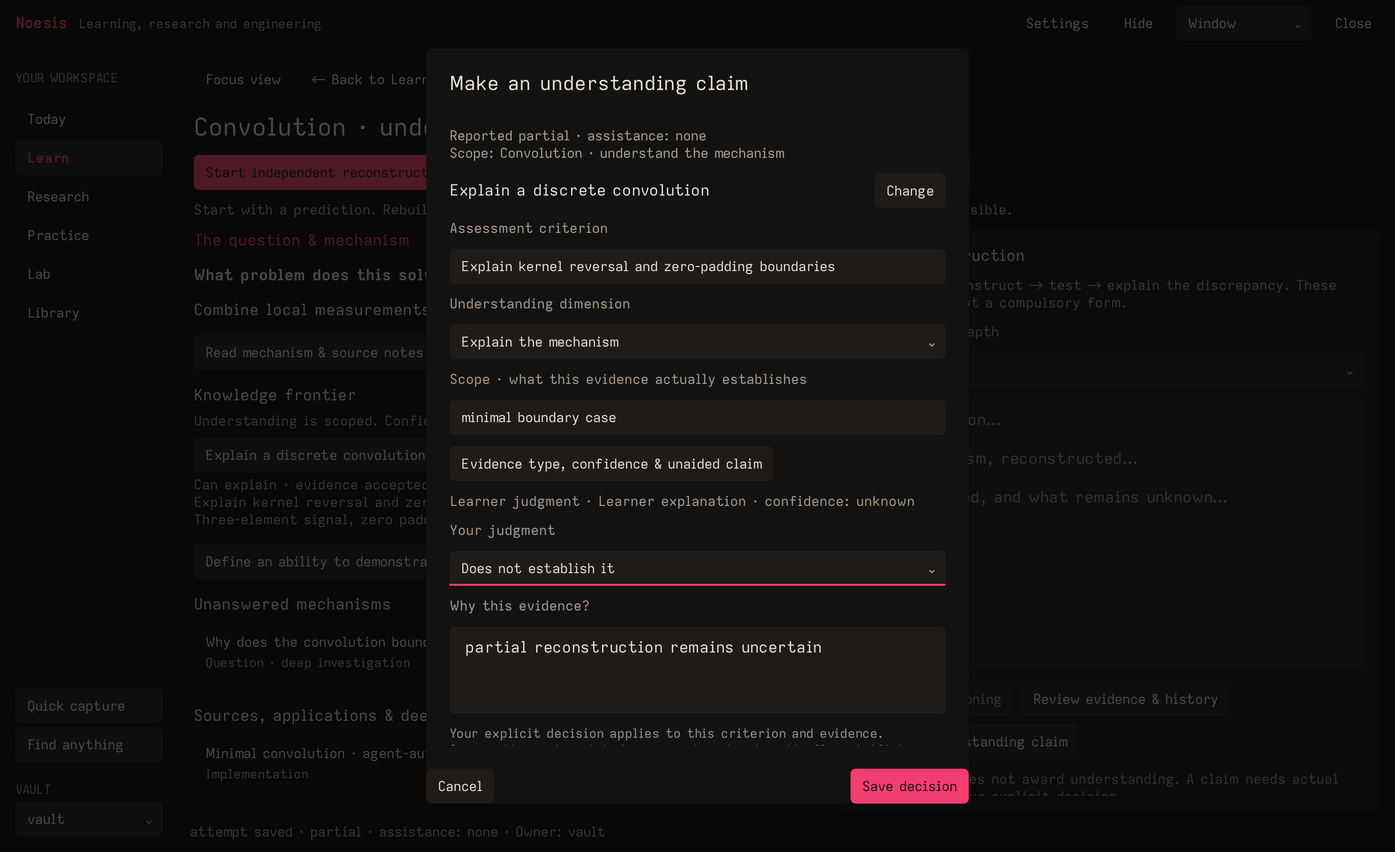
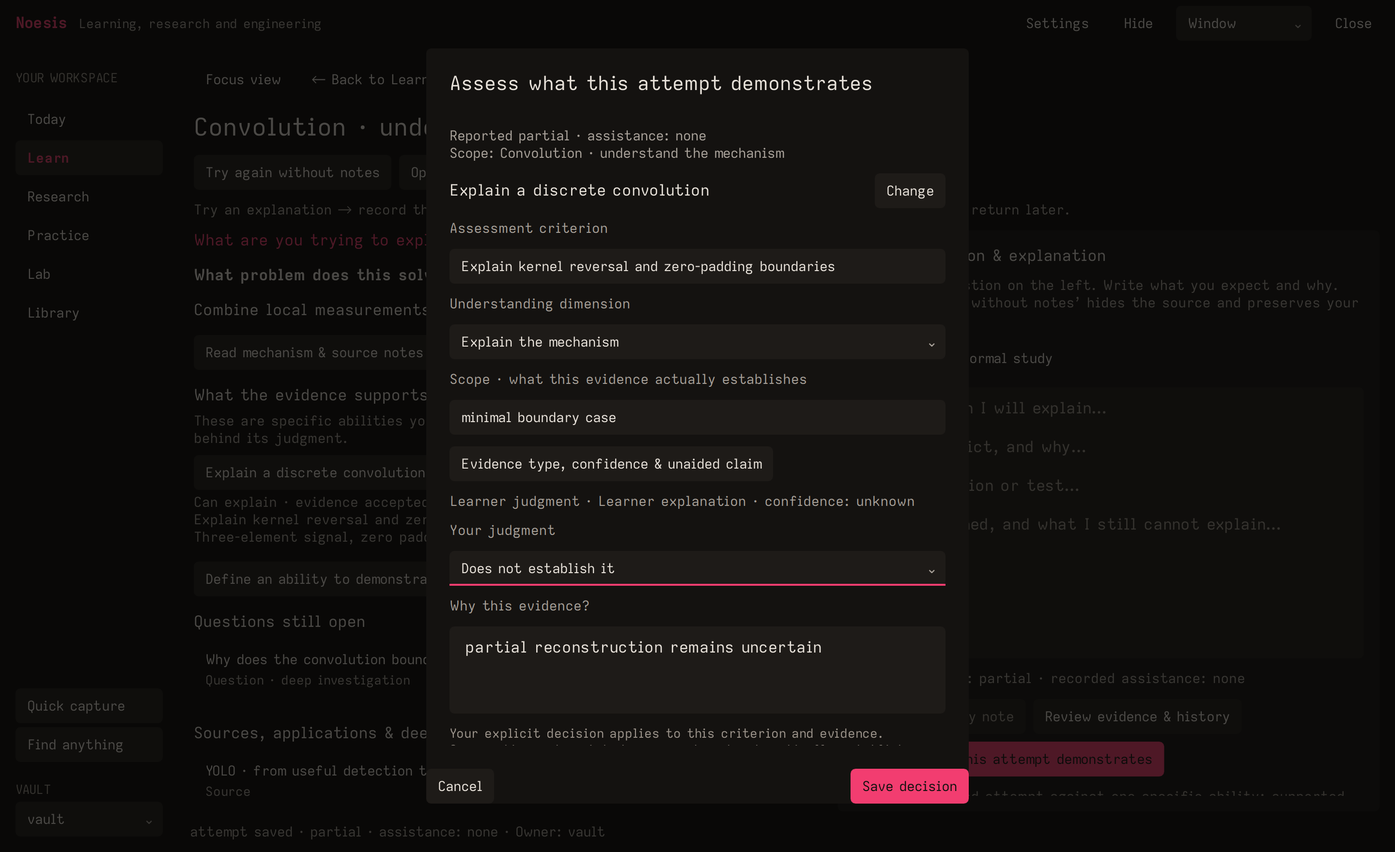
Clarify investigation entry, open questions and evidence assessment

diff --git a/home/.local/share/sensei-learning/ui/NoesisInvestigationPage.qml b/home/.local/share/sensei-learning/ui/NoesisInvestigationPage.qml
@@ -18,9 +18,11 @@ ColumnLayout {
  readonly property var depthIds:["quick","normal","deep","research-grade"]
  function claimLabel(row){let dimensions={encountered:"Encountered",use:"Can use",explain:"Can explain",derive:"Can derive",implement:"Can implement","predict-debug":"Can predict / debug",transfer:"Can transfer",retained:"Retained"};let decisions={accept:"evidence accepted",reject:"not established",withdraw:"judgment withdrawn",conflict:"competing judgments"};return (dimensions[row.dimension]||"Legacy criterion")+" · "+(decisions[row.decision]||"not assessed");}
  property string attemptId:""
+ property var lastAssessment:({})
  property bool referenceHidden:false
  property bool busy:false
  property bool reasoningOnly:false
+ property bool depthSettings:false
  property bool mechanismExpanded:false
  property string previousKey:""
  onRecordChanged:{let key=(record.vault||"")+":"+(record.id||"");if(key!==previousKey){mechanismExpanded=false;reasoningOnly=false;previousKey=key;}}
@@ -45,17 +47,17 @@ ColumnLayout {
  signal reviewEvidence()
  signal pageFrontier(string cursor)
  spacing:NoesisStyle.md
- function restoreAnchors(view){Qt.callLater(()=>{sourceScroll.ScrollBar.vertical.position=Math.max(0,Math.min(1-sourceScroll.ScrollBar.vertical.size,view.source_anchor||0));notesScroll.ScrollBar.vertical.position=Math.max(0,Math.min(1-notesScroll.ScrollBar.vertical.size,view.notes_anchor||0));});}
+ function restoreAnchors(view){reasoningOnly=view.reasoning_only===true;mechanismExpanded=view.mechanism_expanded===true;Qt.callLater(()=>{sourceScroll.ScrollBar.vertical.position=Math.max(0,Math.min(1-sourceScroll.ScrollBar.vertical.size,view.source_anchor||0));notesScroll.ScrollBar.vertical.position=Math.max(0,Math.min(1-notesScroll.ScrollBar.vertical.size,view.notes_anchor||0));});}
 
  Text {textFormat:Text.PlainText;Layout.fillWidth:true;text:root.record.title||"Investigation";color:NoesisStyle.ink;font.family:NoesisStyle.uiFont;font.pixelSize:NoesisStyle.title;wrapMode:Text.Wrap;renderType:Text.NativeRendering}
  Flow {Layout.fillWidth:true;spacing:NoesisStyle.sm
   NoesisButton {text:"← Return to motivation";visible:!!root.origin;onClicked:root.openMember(root.origin)}
-  NoesisButton {text:root.attemptId?"Record reconstruction result":"Start independent reconstruction";primary:true;enabled:!root.busy;onClicked:root.attemptId?root.evaluateAttempt():root.startAttempt()}
+  NoesisButton {text:root.attemptId?"Record how the attempt went":root.lastAssessment.id?"Try again without notes":"Try explaining without notes";primary:!!root.attemptId||!root.lastAssessment.id;enabled:!root.busy;onClicked:root.attemptId?root.evaluateAttempt():root.startAttempt()}
   NoesisButton {text:"Open derivation in Obsidian ↗";enabled:!root.busy&&!root.referenceHidden;onClicked:root.openNote()}
-  NoesisButton {text:"Investigate a missing mechanism";enabled:!root.busy;onClicked:root.askQuestion()}
-  NoesisButton {text:root.reasoningOnly?"Show question & frontier":"Show reasoning";visible:root.compact;highlighted:root.reasoningOnly;onClicked:root.reasoningOnly=!root.reasoningOnly}
+  NoesisButton {text:"Add an unanswered question";enabled:!root.busy;onClicked:root.askQuestion()}
+  NoesisButton {text:root.reasoningOnly?"Show question & evidence":"Show reasoning";visible:root.compact;highlighted:root.reasoningOnly;onClicked:root.reasoningOnly=!root.reasoningOnly}
  }
- Text {textFormat:Text.PlainText;Layout.fillWidth:true;text:root.attemptId?(root.referenceHidden?"Reconstruction in progress · reference protected":"Reconstruction in progress · reference exposure recorded"):"Start with a prediction. Rebuild the mechanism, test a changed case, and keep unanswered questions visible.";color:NoesisStyle.secondary;wrapMode:Text.Wrap;font.family:NoesisStyle.uiFont;font.pixelSize:NoesisStyle.label;renderType:Text.NativeRendering}
+ Text {textFormat:Text.PlainText;Layout.fillWidth:true;text:root.attemptId?(root.referenceHidden?"Reconstruction in progress · reference protected":"Reconstruction in progress · reference exposure recorded"):"Try an explanation → record the result → decide what it demonstrates. You can stop at any stage and return later.";color:NoesisStyle.secondary;wrapMode:Text.Wrap;font.family:NoesisStyle.uiFont;font.pixelSize:NoesisStyle.label;renderType:Text.NativeRendering}
 
  SplitView {
   id:panes;Layout.fillWidth:true;Layout.fillHeight:true;orientation:Qt.Horizontal
@@ -63,14 +65,14 @@ ColumnLayout {
   ScrollView {
    id:sourceScroll;visible:!root.compact||!root.reasoningOnly;SplitView.preferredWidth:panes.width*.53;SplitView.minimumWidth:0;SplitView.fillWidth:root.compact;clip:true;contentWidth:availableWidth;ScrollBar.horizontal.policy:ScrollBar.AlwaysOff
    ColumnLayout {width:sourceScroll.availableWidth;spacing:NoesisStyle.lg
-    Text {textFormat:Text.PlainText;Layout.fillWidth:true;text:"The question & mechanism";color:NoesisStyle.accent;font.family:NoesisStyle.uiFont;font.pixelSize:NoesisStyle.sectionHeading;wrapMode:Text.Wrap;renderType:Text.NativeRendering}
+    Text {textFormat:Text.PlainText;Layout.fillWidth:true;text:"What are you trying to explain?";color:NoesisStyle.accent;font.family:NoesisStyle.uiFont;font.pixelSize:NoesisStyle.sectionHeading;wrapMode:Text.Wrap;renderType:Text.NativeRendering}
     Repeater {model:root.referenceHidden?[]:(root.mechanismExpanded?(root.preview.blocks||[]):(root.preview.blocks||[]).slice(0,2));delegate:TextEdit {required property var modelData;Layout.fillWidth:true;Layout.maximumWidth:NoesisStyle.readingWidth;text:modelData.text;readOnly:true;selectByMouse:true;textFormat:TextEdit.PlainText;wrapMode:TextEdit.Wrap;color:NoesisStyle.ink;font.family:modelData.kind==="code"?NoesisStyle.codeFont:NoesisStyle.uiFont;font.pixelSize:modelData.kind==="heading"?NoesisStyle.sectionHeading:NoesisStyle.body;font.bold:modelData.kind==="heading";renderType:TextEdit.NativeRendering}}
     Text {textFormat:Text.PlainText;Layout.fillWidth:true;visible:root.referenceHidden||!(root.preview.blocks||[]).length;text:root.referenceHidden?"Reference hidden for this attempt. The question stays in the title; reconstruct before consulting your notes.":"What problem makes this mechanism necessary? Write a question, predict a simple case, then test your explanation.";color:NoesisStyle.secondary;font.family:NoesisStyle.uiFont;font.pixelSize:NoesisStyle.body;wrapMode:Text.Wrap;renderType:Text.NativeRendering}
     NoesisButton {visible:!root.referenceHidden&&(root.preview.blocks||[]).length>2;text:root.mechanismExpanded?"Collapse mechanism notes":"Read mechanism & source notes";onClicked:root.mechanismExpanded=!root.mechanismExpanded}
     NoesisButton {visible:root.attemptId;text:"Reveal reference deliberately";enabled:root.referenceHidden&&!root.busy;onClicked:root.revealReference()}
     ColumnLayout {visible:!root.referenceHidden;Layout.fillWidth:true;spacing:NoesisStyle.sm
-     Text {textFormat:Text.PlainText;Layout.fillWidth:true;text:"Knowledge frontier";color:NoesisStyle.ink;font.family:NoesisStyle.uiFont;font.pixelSize:NoesisStyle.sectionHeading;wrapMode:Text.Wrap;renderType:Text.NativeRendering}
-     Text {textFormat:Text.PlainText;Layout.fillWidth:true;text:"Understanding is scoped. Confidence, assistance and evidence stay separate.";color:NoesisStyle.secondary;font.family:NoesisStyle.uiFont;font.pixelSize:NoesisStyle.label;wrapMode:Text.Wrap;renderType:Text.NativeRendering}
+     Text {textFormat:Text.PlainText;Layout.fillWidth:true;text:"What the evidence supports";color:NoesisStyle.ink;font.family:NoesisStyle.uiFont;font.pixelSize:NoesisStyle.sectionHeading;wrapMode:Text.Wrap;renderType:Text.NativeRendering}
+     Text {textFormat:Text.PlainText;Layout.fillWidth:true;text:"These are specific abilities you have chosen to assess. Open one to see the work behind its judgment.";color:NoesisStyle.secondary;font.family:NoesisStyle.uiFont;font.pixelSize:NoesisStyle.label;wrapMode:Text.Wrap;renderType:Text.NativeRendering}
      Repeater {model:root.capabilities;delegate:ColumnLayout {required property var modelData;Layout.fillWidth:true;spacing:NoesisStyle.xs
       NoesisButton {text:modelData.title;onClicked:root.openMember(modelData)}
       Repeater {model:modelData.claims||[];delegate:Text {textFormat:Text.PlainText;required property var modelData;Layout.fillWidth:true;text:root.claimLabel(modelData)+(modelData.independent?" · learner-reported unaided":"")+"\n"+modelData.criterion+"\n"+(modelData.scope||"Scope not recorded")+(modelData.availability?"\nEvidence unavailable":"");color:modelData.decision==="conflict"?NoesisStyle.warning:NoesisStyle.secondary;font.family:NoesisStyle.uiFont;font.pixelSize:NoesisStyle.label;wrapMode:Text.Wrap;renderType:Text.NativeRendering}}
@@ -84,7 +86,7 @@ ColumnLayout {
      NoesisButton {text:"Define an ability to demonstrate";visible:root.record.type!=="capability";enabled:!root.busy;onClicked:root.defineCapability()}
     }
     ColumnLayout {visible:!root.referenceHidden;Layout.fillWidth:true;spacing:NoesisStyle.sm
-     Text {textFormat:Text.PlainText;Layout.fillWidth:true;text:"Unanswered mechanisms";color:NoesisStyle.ink;font.family:NoesisStyle.uiFont;font.pixelSize:NoesisStyle.sectionHeading;wrapMode:Text.Wrap;renderType:Text.NativeRendering}
+     Text {textFormat:Text.PlainText;Layout.fillWidth:true;text:"Questions still open";color:NoesisStyle.ink;font.family:NoesisStyle.uiFont;font.pixelSize:NoesisStyle.sectionHeading;wrapMode:Text.Wrap;renderType:Text.NativeRendering}
      Repeater {model:root.questions;delegate:NoesisRow {required property var modelData;Layout.fillWidth:true;title:modelData.title;subtitle:modelData.status==="parked"?"Parked deliberately · return when useful":"Question · "+modelData.depth+" investigation";onClicked:root.openMember(modelData)}}
      Text {textFormat:Text.PlainText;Layout.fillWidth:true;visible:!root.questions.length;text:"No linked questions yet. Record a missing mechanism when you encounter one; you can keep using the abstraction.";color:NoesisStyle.secondary;font.family:NoesisStyle.uiFont;font.pixelSize:NoesisStyle.label;wrapMode:Text.Wrap;renderType:Text.NativeRendering}
      Flow {Layout.fillWidth:true;spacing:NoesisStyle.sm
@@ -102,21 +104,22 @@ ColumnLayout {
    visible:!root.compact||root.reasoningOnly;color:NoesisStyle.canvas;radius:NoesisStyle.radius;SplitView.fillWidth:true;SplitView.minimumWidth:0
    ScrollView {id:notesScroll;anchors.fill:parent;anchors.margins:NoesisStyle.lg;clip:true;contentWidth:availableWidth;ScrollBar.horizontal.policy:ScrollBar.AlwaysOff
     ColumnLayout {width:notesScroll.availableWidth;spacing:NoesisStyle.md
-     Text {textFormat:Text.PlainText;Layout.fillWidth:true;text:"Your reconstruction";color:NoesisStyle.ink;font.family:NoesisStyle.uiFont;font.pixelSize:NoesisStyle.sectionHeading;wrapMode:Text.Wrap;renderType:Text.NativeRendering}
-     Text {textFormat:Text.PlainText;Layout.fillWidth:true;text:"Predict → reconstruct → test → explain the discrepancy. These are prompts, not a compulsory form.";color:NoesisStyle.secondary;font.family:NoesisStyle.uiFont;font.pixelSize:NoesisStyle.label;wrapMode:Text.Wrap;renderType:Text.NativeRendering}
-     Text {textFormat:Text.PlainText;Layout.fillWidth:true;text:"Investigation depth";color:NoesisStyle.secondary;font.family:NoesisStyle.uiFont;font.pixelSize:NoesisStyle.label;renderType:Text.NativeRendering}
-     NoesisSelect {Layout.fillWidth:true;model:["Quick exploration","Normal study","Deep reconstruction","Research-grade reproduction"];currentIndex:Math.max(0,root.depthIds.indexOf(root.depth));Accessible.name:"Investigation depth";enabled:!root.busy;onActivated:root.chooseDepth(root.depthIds[currentIndex])}
-     NoesisEditor {id:reasoning;objectName:"investigation-reasoning";Layout.fillWidth:true;Layout.preferredHeight:Math.max(280*NoesisStyle.interfaceScale,implicitHeight);text:root.notes;placeholderText:"My prediction…\n\nThe mechanism, reconstructed…\n\nWhat changed, and what remains unknown…";Accessible.name:"Investigation reasoning draft";onTextChanged:if(text!==root.notes)root.notesEdited(text)}
+     Text {textFormat:Text.PlainText;Layout.fillWidth:true;text:"Your prediction & explanation";color:NoesisStyle.ink;font.family:NoesisStyle.uiFont;font.pixelSize:NoesisStyle.sectionHeading;wrapMode:Text.Wrap;renderType:Text.NativeRendering}
+     Text {textFormat:Text.PlainText;Layout.fillWidth:true;text:root.attemptId?"Explain in your own words. Try a small example or test, then record what happened using the action above.":"Choose one question on the left. Write what you expect and why. ‘Try explaining without notes’ hides the source and preserves your first approach.";color:NoesisStyle.secondary;font.family:NoesisStyle.uiFont;font.pixelSize:NoesisStyle.label;wrapMode:Text.Wrap;renderType:Text.NativeRendering}
+     NoesisButton {text:"Study depth: "+(["Quick exploration","Normal study","Deep reconstruction","Research-grade reproduction"][Math.max(0,root.depthIds.indexOf(root.depth))]);variant:"tertiary";enabled:!root.busy;onClicked:root.depthSettings=!root.depthSettings}
+     NoesisSelect {visible:root.depthSettings;Layout.fillWidth:true;model:["Quick exploration","Normal study","Deep reconstruction","Research-grade reproduction"];currentIndex:Math.max(0,root.depthIds.indexOf(root.depth));Accessible.name:"Investigation depth";enabled:!root.busy;onActivated:root.chooseDepth(root.depthIds[currentIndex])}
+     NoesisEditor {id:reasoning;objectName:"investigation-reasoning";Layout.fillWidth:true;Layout.preferredHeight:Math.max(280*NoesisStyle.interfaceScale,implicitHeight);text:root.notes;placeholderText:"The question I will explain…\n\nWhat I predict, and why…\n\nMy explanation or test…\n\nWhat happened, and what I still cannot explain…";Accessible.name:"Investigation reasoning draft";onTextChanged:if(text!==root.notes)root.notesEdited(text)}
+     Text {textFormat:Text.PlainText;Layout.fillWidth:true;visible:!!root.lastAssessment.id&&!root.attemptId;text:"Latest attempt: "+(root.lastAssessment.outcome||"unknown")+" · recorded assistance: "+(root.lastAssessment.assistance||["unknown"]).join(", ");color:NoesisStyle.secondary;font.family:NoesisStyle.uiFont;font.pixelSize:NoesisStyle.label;wrapMode:Text.Wrap;renderType:Text.NativeRendering}
      Flow {Layout.fillWidth:true;spacing:NoesisStyle.sm
-      NoesisButton {text:"Preserve reasoning";enabled:root.notes.trim()!==""&&!root.busy;onClicked:root.preserveNote()}
+      NoesisButton {text:"Save as a study note";enabled:root.notes.trim()!==""&&!root.busy;onClicked:root.preserveNote()}
       NoesisButton {text:"Review evidence & history";enabled:!root.busy;onClicked:root.showHistory()}
-      NoesisButton {text:"Make an understanding claim";enabled:!root.attemptId&&!root.referenceHidden&&!root.busy;onClicked:root.reviewEvidence()}
+      NoesisButton {text:"Assess what this attempt demonstrates";primary:!!root.lastAssessment.id&&!root.attemptId;enabled:!!root.lastAssessment.id&&!root.attemptId&&!root.referenceHidden&&!root.busy;onClicked:root.reviewEvidence()}
      }
      Flow {visible:root.record.type==="question";Layout.fillWidth:true;spacing:NoesisStyle.sm
       NoesisButton {text:root.status==="parked"?"Resume this question":"Park this question";enabled:!root.busy;onClicked:root.disposition(root.status==="parked"?"active":"parked")}
       NoesisButton {text:root.status==="answered"?"Reopen the question":"Mark question answered";enabled:!root.busy&&!root.attemptId;onClicked:root.disposition(root.status==="answered"?"active":"answered")}
      }
-     Text {textFormat:Text.PlainText;Layout.fillWidth:true;text:"Saving notes does not award understanding. A claim needs actual evidence and your explicit decision.";color:NoesisStyle.quiet;font.family:NoesisStyle.uiFont;font.pixelSize:NoesisStyle.label;wrapMode:Text.Wrap;renderType:Text.NativeRendering}
+     Text {textFormat:Text.PlainText;Layout.fillWidth:true;text:root.lastAssessment.id?"Assess the saved attempt against one specific ability: supported, not yet established, or withdrawn. This is your evidence judgment; confidence remains separate.":"Save a study note whenever useful. To assess understanding, first attempt the explanation and record its result; the assessment action becomes available afterward.";color:NoesisStyle.quiet;font.family:NoesisStyle.uiFont;font.pixelSize:NoesisStyle.label;wrapMode:Text.Wrap;renderType:Text.NativeRendering}
     }
    }
   }

diff --git a/home/.local/share/sensei-learning/ui/NoesisWorkspace.qml b/home/.local/share/sensei-learning/ui/NoesisWorkspace.qml
@@ -47,7 +47,7 @@ Rectangle {
  property var restoreView:({})
  property var restoreCourse:({})
  function courseReference(){return courseRecord.id?{id:courseRecord.id,path:courseRecord.path,title:courseRecord.title,type:courseRecord.type,source_kind:courseRecord.source_kind,vault:NoesisController.activeVault,vault_id:courseRecord.vault_id,expanded_module:courseStudio.expandedModule,page_anchor:courseStudio.pageAnchor,outline_anchor:courseStudio.outlineAnchor,lesson_anchor:courseStudio.lessonAnchor}:null;}
- function rememberView(){if(navigationIndex<0||!selected.id||navigation[navigationIndex]?.id!==selected.id)return;let entries=navigation.slice();entries[navigationIndex]=Object.assign({},entries[navigationIndex],{vault:selectedVault,vault_id:selected.vault_id,path:selected.path,title:selected.title,_view:{tab:contextTab,anchor:readScroll.ScrollBar.vertical.position,attempt:activeAttempt,protected:referenceHidden,revealed:revealedAttempt,source_anchor:investigation.sourceAnchor,notes_anchor:investigation.notesAnchor}});navigation=entries;route.persist();}
+ function rememberView(){if(navigationIndex<0||!selected.id||navigation[navigationIndex]?.id!==selected.id)return;let entries=navigation.slice();entries[navigationIndex]=Object.assign({},entries[navigationIndex],{vault:selectedVault,vault_id:selected.vault_id,path:selected.path,title:selected.title,_view:{tab:contextTab,anchor:readScroll.ScrollBar.vertical.position,attempt:activeAttempt,protected:referenceHidden,revealed:revealedAttempt,source_anchor:investigation.sourceAnchor,notes_anchor:investigation.notesAnchor,reasoning_only:investigation.reasoningOnly,mechanism_expanded:investigation.mechanismExpanded}});navigation=entries;route.persist();}
  readonly property bool courseWorking:section==="Learn"&&contextTab==="Read"&&!!selected.id&&(workflow.kind==="course"||workflow.kind==="path"||selected.type==="unit")
  function courseOpen(row){if(row.unit_kind==="module"){outlineLoading=true;moduleAppend=false;courseStudio.moduleRows=[];courseStudio.moduleCursor="";moduleSerial=send("outline",{record_id:row.id,cursor:0});courseStudio.expand(row);}else openWork(row);}
  function returnCollection(){flushDrafts();let frame=collectionReturn;selected=({});body="";browseOpen=false;if(frame.section&&frame.section!==section)section=frame.section;query=frame.query||"";search.text=query;collectionRestore=frame;load(false);}
@@ -399,7 +399,7 @@ Rectangle {
       onSavePlace:value=>root.saveEvent("study",{state:{position:value}})
       onReviewReadiness:row=>readinessDialog.begin(row)
      }
-     NoesisInvestigationPage {id:investigation;visible:root.investigationWorking;Layout.fillWidth:true;Layout.fillHeight:true;Layout.minimumHeight:0;record:root.selected;frontier:root.frontier;preview:root.documentPreview;claimCursor:root.workflow.claim_cursor||"";claimNewerCursor:root.workflow.claim_newer_cursor||"";claims:root.workflow.kind==="capability"?root.workflow.evidence||[]:[];notes:root.evidence.text;depth:root.selectedState.depth||root.selected.investigation?.depth||"normal";status:root.selectedState.status||root.selected.status||"active";attemptId:root.activeAttempt;referenceHidden:root.referenceHidden;busy:NoesisController.working||NoesisController.uncertainReceipt||NoesisController.exitRequested
+     NoesisInvestigationPage {id:investigation;visible:root.investigationWorking;Layout.fillWidth:true;Layout.fillHeight:true;Layout.minimumHeight:0;record:root.selected;lastAssessment:root.history.slice().reverse().find(event=>["attempt","review"].includes(event.event))||({});frontier:root.frontier;preview:root.documentPreview;claimCursor:root.workflow.claim_cursor||"";claimNewerCursor:root.workflow.claim_newer_cursor||"";claims:root.workflow.kind==="capability"?root.workflow.evidence||[]:[];notes:root.evidence.text;depth:root.selectedState.depth||root.selected.investigation?.depth||"normal";status:root.selectedState.status||root.selected.status||"active";attemptId:root.activeAttempt;referenceHidden:root.referenceHidden;busy:!NoesisController.hostReady||NoesisController.working||NoesisController.uncertainReceipt||NoesisController.exitRequested
       onNotesEdited:value=>{root.evidence.text=value;draftSave.restart();}
       onPreserveNote:root.saveEvent("study",{state:{}})
       onStartAttempt:root.saveEvent("attempt-start",{mode:"derive",scope:root.selected.title,assistance:["none"]})

diff --git a/home/.local/share/sensei-learning/ui/NoesisEvidenceDialog.qml b/home/.local/share/sensei-learning/ui/NoesisEvidenceDialog.qml
@@ -21,7 +21,7 @@ NoesisDialog {
  property string submittedOperation:""
  signal lookup(string query)
  signal inspect(string identity)
- title:"Make an understanding claim"
+ title:"Assess what this attempt demonstrates"
  height:Math.min(780*NoesisStyle.interfaceScale,(parent?.height||900)-32)
  function begin(activity){provenanceOpen=false;evidence=activity;selected=({});criterionOptions=[];decision.currentIndex=0;dimension.currentIndex=0;confidence.currentIndex=0;attribution.currentIndex=0;resolution.currentIndex=0;evidenceKind.currentIndex=0;claimScope.text=activity.scope||"";capabilities=[];vaultScope=NoesisController.activeVault;filter.text="";criterion.text="";reasoning.text="";loading=true;open();lookup("");filter.forceActiveFocus();}
  function detail(record){currentClaims=record.overview?.evidence||[];selected=Object.assign({},record.props,{path:record.path});criterionOptions=Array.isArray(selected.criteria)?selected.criteria.filter(value=>typeof value==="string"):[];criterion.text=criterionOptions.length===1?criterionOptions[0]:"";if(criterionOptions.length===1)reasoning.forceActiveFocus();else if(criterionOptions.length>1)criteriaPicker.forceActiveFocus();else criterion.forceActiveFocus();}
@@ -34,7 +34,7 @@ NoesisDialog {
    Keys.onEnterPressed:if(currentIndex>=0)root.inspect(root.capabilities[currentIndex].id)
    delegate:NoesisRow {objectName:"claim-capability-row";required property var modelData;width:ListView.view.width;title:modelData.title;highlighted:root.selected.id===modelData.id;onClicked:root.inspect(modelData.id)}
    ScrollBar.vertical:ScrollBar {}
-   NoesisEmpty {anchors.fill:parent;visible:root.capabilities.length===0&&!root.loading;title:"Define the ability first";description:"Add a capability from a learning path, then judge this evidence against a scoped criterion."}
+   NoesisEmpty {anchors.fill:parent;visible:root.capabilities.length===0&&!root.loading;title:"Choose an ability to assess";description:"Define one from the investigation page, for example ‘Explain a boundary condition’, then compare this attempt with its criterion."}
   }
   RowLayout {visible:!!root.selected.id;Layout.fillWidth:true
    Text {textFormat:Text.PlainText;renderType:Text.NativeRendering;font.hintingPreference:Font.PreferFullHinting;text:root.selected.title||"Capability";color:NoesisStyle.ink;font.family:NoesisStyle.uiFont;font.pixelSize:NoesisStyle.body;elide:Text.ElideRight;Layout.fillWidth:true}

diff --git a/scripts/check-noesis-frontier.py b/scripts/check-noesis-frontier.py
@@ -174,7 +174,7 @@ try:
         state = json.loads(fixture.ipc('frontier-fixture', 'state'))
         assert state['investigation'] and len(state['frontier']['items']) >= 4, state
         assert fixture.ipc('frontier-fixture', 'typeNotes').lower().startswith('pad')
-        assert fixture.ipc('frontier-fixture', 'click', 'Start independent reconstruction') == 'clicked'
+        assert fixture.ipc('frontier-fixture', 'click', 'Try explaining without notes') == 'clicked'
         fixture.wait(lambda state: bool(state['attempt']) and state['reference_hidden'])
         capture('reconstruction-protected')
         fixture.ipc('noesis','hide')
@@ -201,13 +201,13 @@ try:
         capture('concept-200-reasoning')
         fixture.ipc('frontier-fixture', 'scale', '1')
         time.sleep(.3)
-        assert fixture.ipc('frontier-fixture', 'click', 'Record reconstruction result') == 'clicked'
+        assert fixture.ipc('frontier-fixture', 'click', 'Record how the attempt went') == 'clicked'
         time.sleep(.25)
         result=fixture.ipc('frontier-fixture', 'choose', 'attempt-outcome', '3');assert result == 'partial', result
         assert fixture.ipc('frontier-fixture', 'choose', 'attempt-assistance', '1') == 'none'
         assert fixture.ipc('frontier-fixture', 'click', 'Save reconstruction result') == 'clicked'
         fixture.wait(lambda state: not state['attempt'] and not state['working'] and 'attempt' in json.loads(fixture.ipc('frontier-fixture','state'))['history'])
-        assert fixture.ipc('frontier-fixture', 'click', 'Make an understanding claim') == 'clicked'
+        assert fixture.ipc('frontier-fixture', 'click', 'Assess what this attempt demonstrates') == 'clicked'
         time.sleep(.5)
         capture('claim-picker')
         result=fixture.ipc('frontier-fixture', 'clickName', 'claim-capability-row');assert result == 'clicked', (result, fixture.state(), fixture.ipc('frontier-fixture','debug'))

diff --git a/docs/learning-system/frontier-evidence.md b/docs/learning-system/frontier-evidence.md
@@ -53,7 +53,7 @@ and [captured conditions](assets/frontier/after.json) retain the native window r
 The fixture adds an equivalent Item viewport around existing application content so
 native popup overlays are included in capture. Images are not composed mockups or
 captures of personal vaults. Main-display DPR is 2; application text scale is recorded
-separately. A 177-frame instrumented sample measured p95 17.223 ms. This is frame
+separately. A 184-frame instrumented sample measured p95 17.158 ms. This is frame
 interval, not physical input latency or sustained human-use acceptance.
 
 The synthetic 10,000-record benchmark measured rebuild 3.554 s, query p95 29.641 ms,
@@ -62,6 +62,16 @@ Existing shutdown checks passed all ten debounce, pending mutation/import, faile
 uncertain-receipt and forced-exit scenarios. Scoped installer checks passed two installs,
 rollback and protection of later edits/unrelated files. Tests do not establish educational
 effectiveness.
+
+## Owner feedback and response
+
+The owner reported that starting reconstruction, finding missing mechanisms and
+judging evidence were all unclear. The page now states the sequence directly, uses
+‘Try explaining without notes’, ‘Questions still open’ and ‘Assess what this attempt
+demonstrates’, and explains when assessment becomes available. A saved result is
+required before that action is enabled. Study-depth settings are collapsed by default.
+Native interaction checks passed after this change; the owner has not yet confirmed
+that it resolves the usability problem in actual learning.
 
 ## Release boundary and remaining work
 
